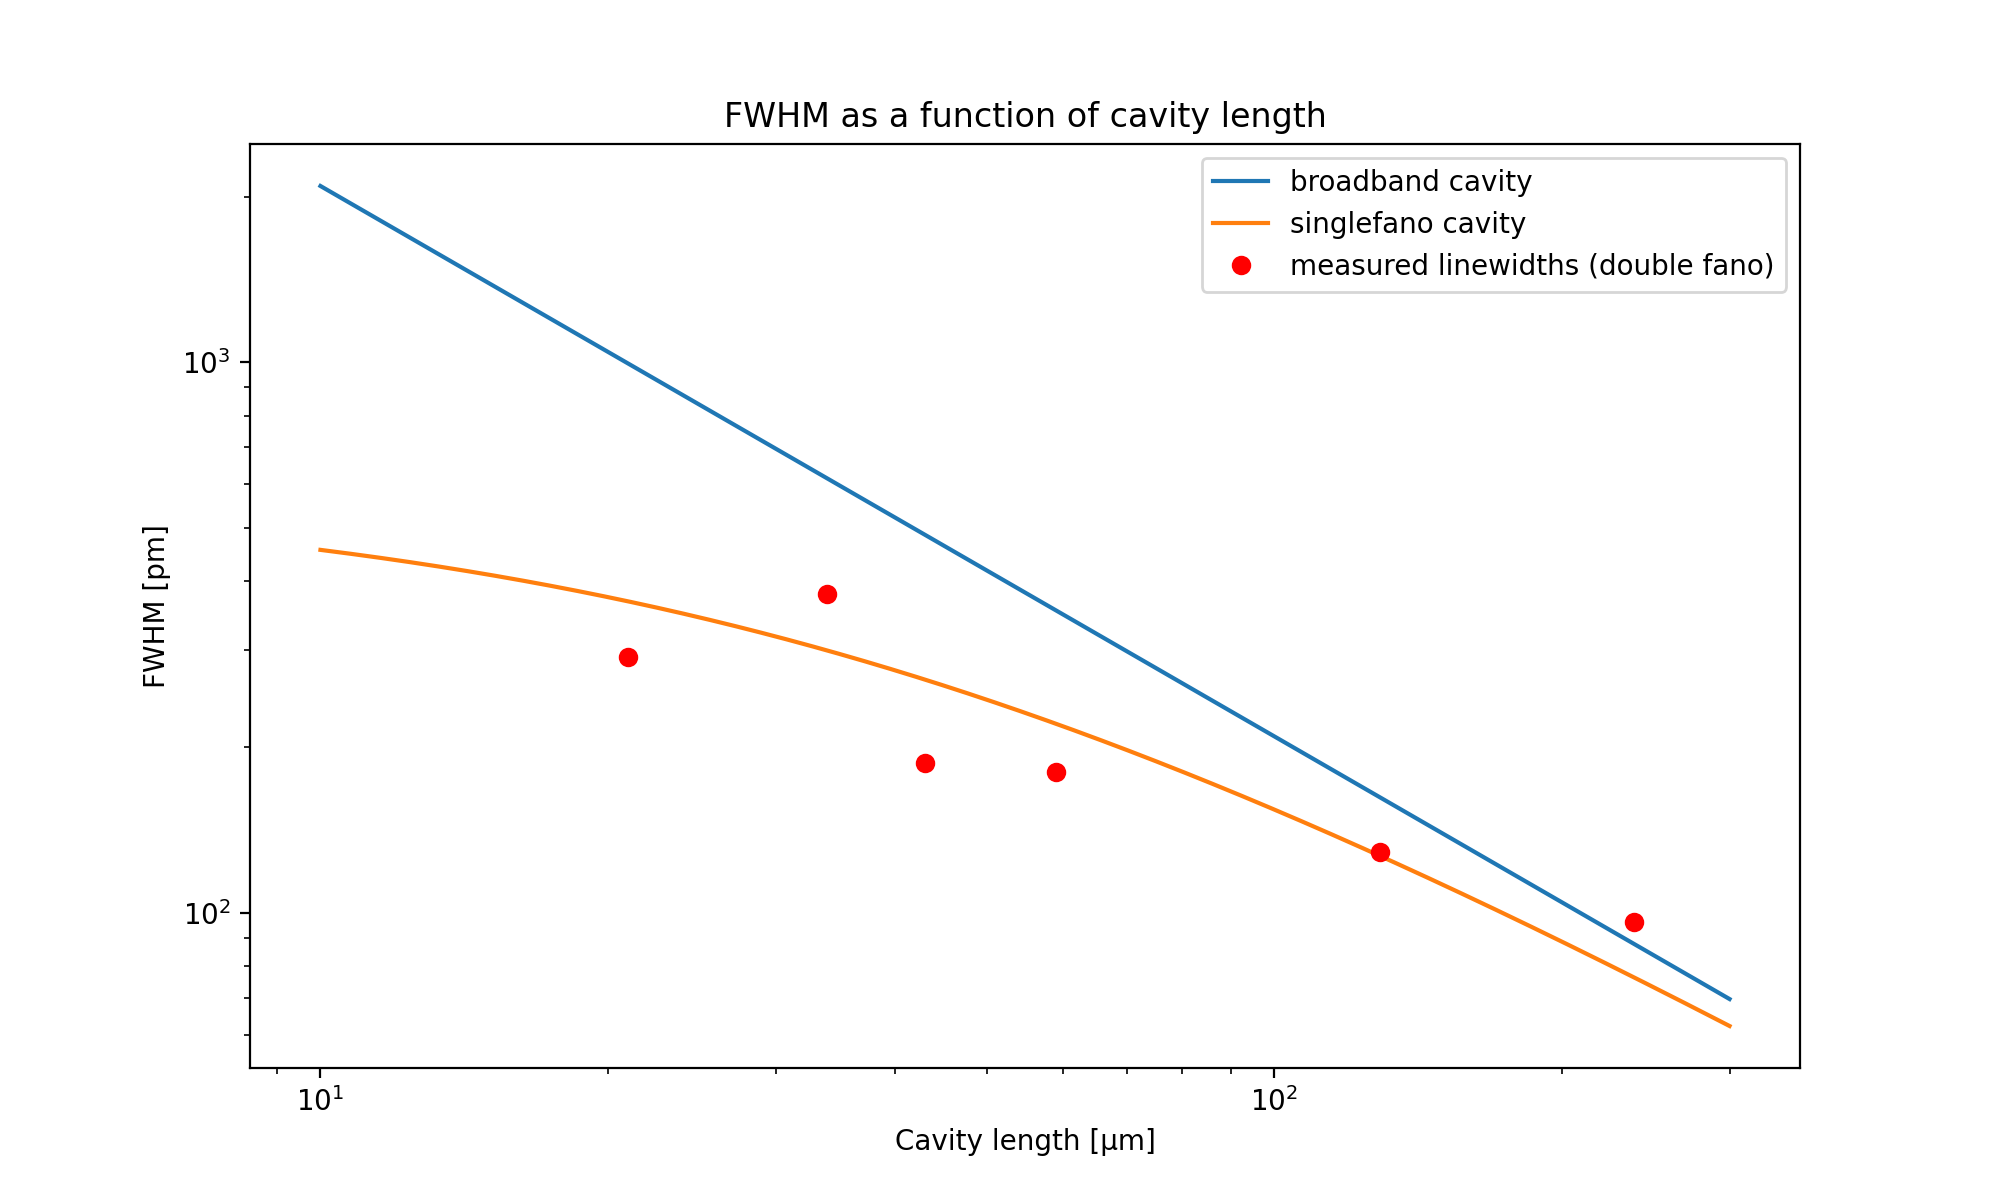
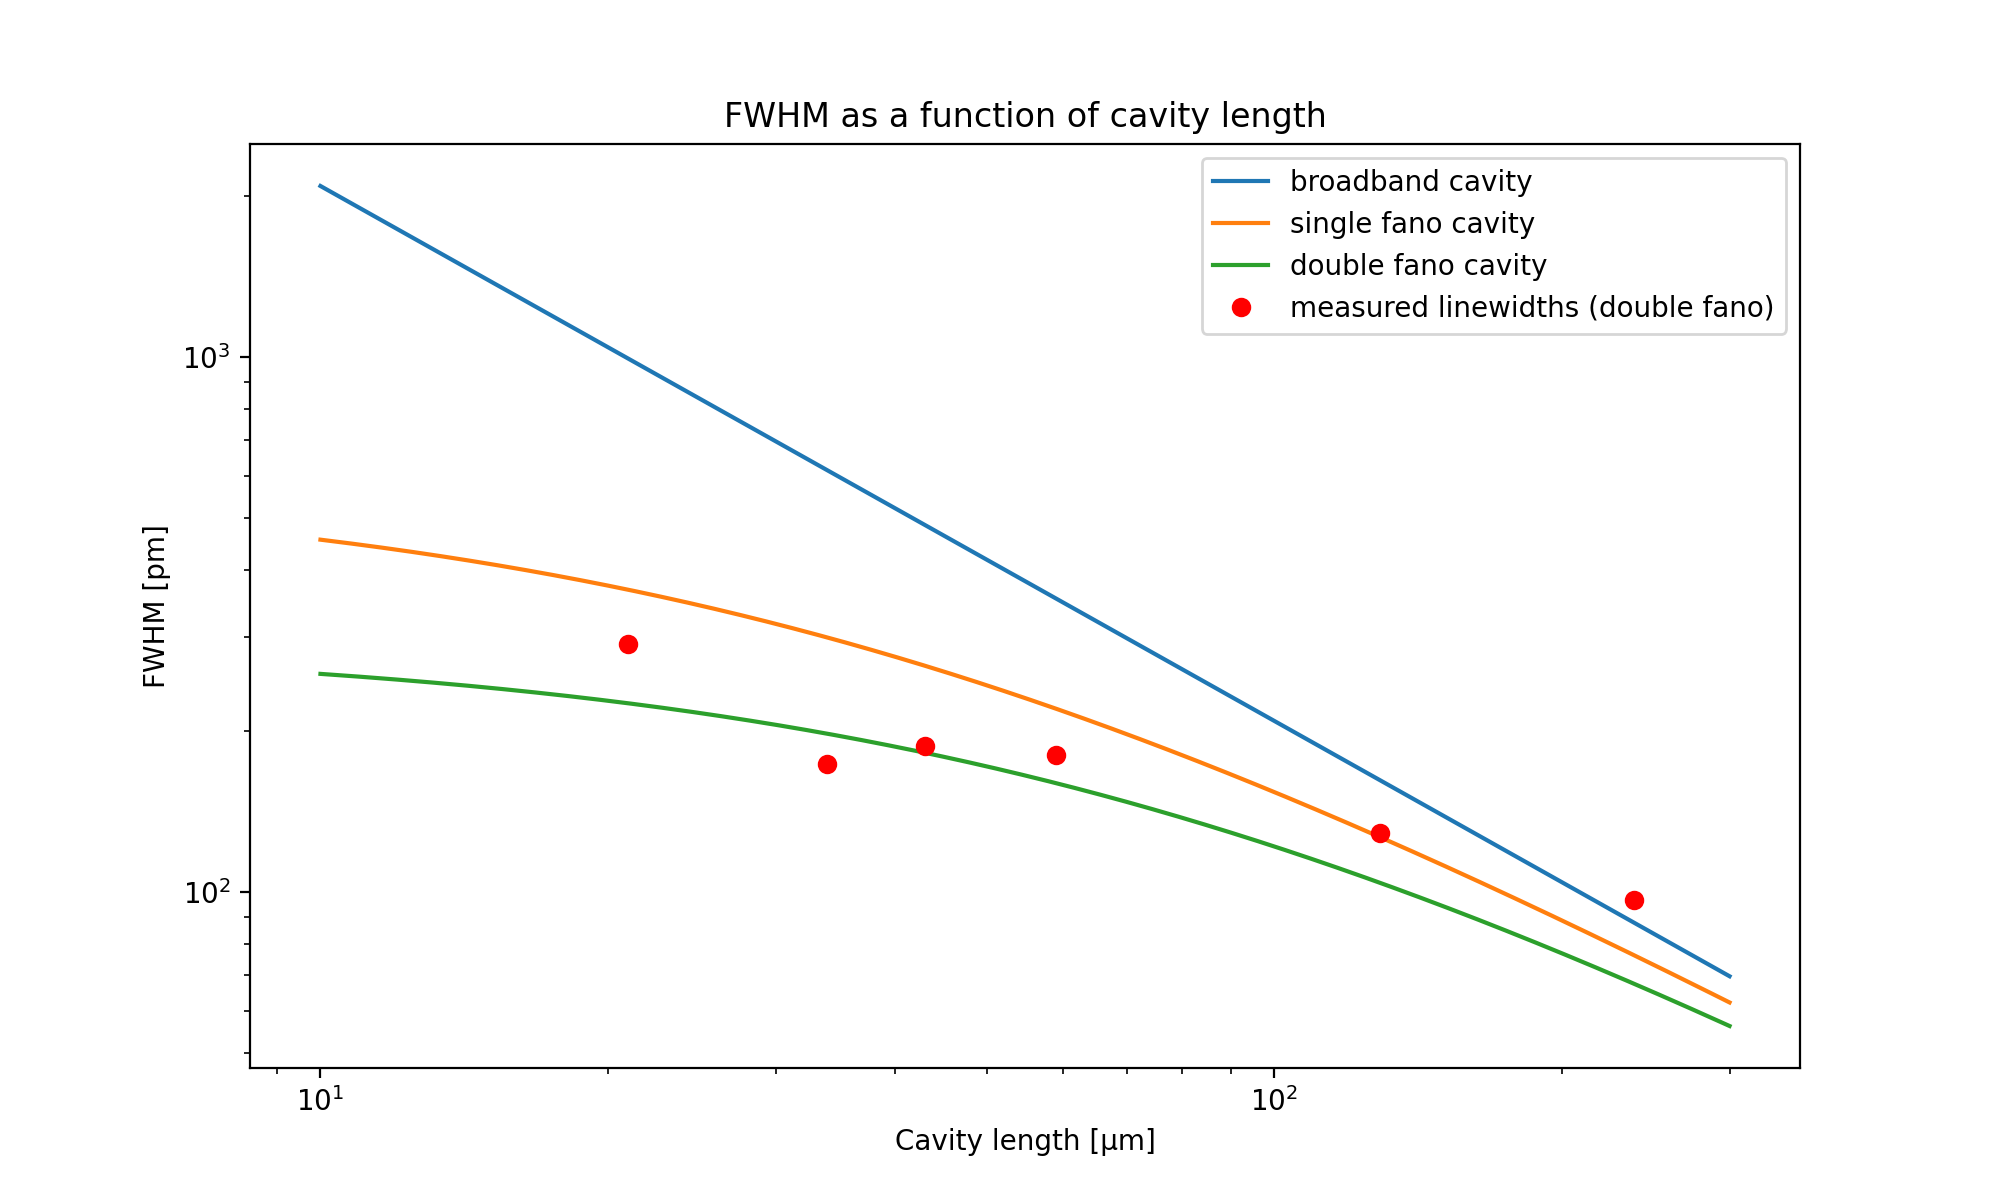
-

diff --git a/cavity_linewidth.py b/cavity_linewidth.py
@@ -39,7 +39,9 @@ lengths = np.array([21,34,43,59,129,238])*1e-6
 #    linewidth = 2*lw_fano(length,λres,L,γλ,rd,Tg,Tm)
 #    print("length of fano cavity: ", round(length*1e6,1), "μm", " -> ", "theoretical linewidth: ", round(linewidth*1e12,1), "pm")
 
-lws = np.array([291,170,187,180,129,96])*1e-12 # line widths
+lws = np.array([291.28,173.5,187.6,180.4,129.2,96.63])*1e-12 # linewidths in pm
+
+### old 34um linewidth was ~380pm
 
 plt.figure(figsize=(10,6))
 
